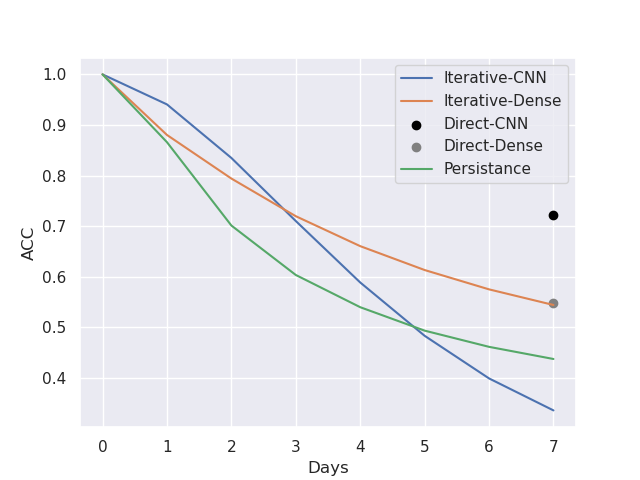
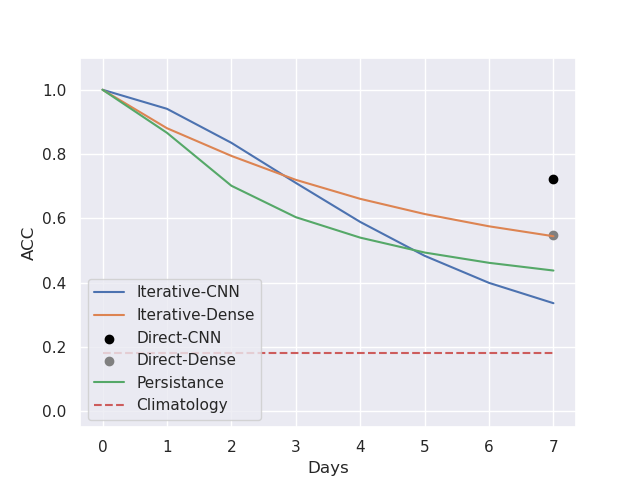
Added climatology prediction

diff --git a/predict.py b/predict.py
@@ -56,7 +56,17 @@ def persistance():
         rmse, acc = get_test_metrics(y_true, test_X)
         rmse_persistance[i+1] = np.mean(rmse)
         accuracy_persistance[i+1] = np.mean(acc)
-    return rmse_persistance, accuracy_persistance   
+    return rmse_persistance, accuracy_persistance 
+
+def climatology():
+    clim = np.load('data/clima_test.npy', allow_pickle = True).astype('float32')
+    _, y_true = test_data(skip_day=1)
+    rmse_clima = np.zeros(len(y_true))
+    accuracy_clima = np.zeros(len(y_true))
+    for i in range(len(y_true)):
+        rmse_clima[i] = rmse(y_true[i], clim)
+        accuracy_clima[i] = accuracy(y_true[i], clim)
+    return np.mean(rmse_clima), np.mean(accuracy_clima)  
 
 if __name__ == '__main__': 
     #rmse_iter, acc_iter = iterative_predict('model_simple_enc_dec_1_day')
@@ -64,7 +74,9 @@ if __name__ == '__main__':
     rmse_per, acc_per = persistance()
     #rmse_direct, acc_direct = direct_predict('model_simple_enc_dec_7_day')
     rmse_direct, acc_direct = direct_predict('model_dense_7_day')
+    rmse_clima, acc_clima = climatology()   
     with open('metrics.txt', 'w') as f:
         f.write(f'Iteration:\n  RMSE: {rmse_iter}\n  ACC: {acc_iter}\n')
         f.write(f'Persistance:\n  RMSE: {rmse_per}\n  ACC: {acc_per}\n')
         f.write(f'Direct day 1:\n  RMSE: {rmse_direct}\n  ACC: {acc_direct}\n')
+        f.write(f'Climatology:\n  RMSE: {rmse_clima}\n  ACC: {acc_clima}\n')

diff --git a/utils.py b/utils.py
@@ -107,9 +107,9 @@ def plot_acc_hist(history, folderpath):
 ### ELSE ###
 
 def save_clima(): 
-    data = data_processing(load_data())  
+    data = data_processing(load_data())[-365:]  
     clima = data.mean(axis = 0)
-    clima.dump('data/clima.npy')
+    clima.dump('data/clima_test.npy')
     return
 
 if __name__ == '__main__':
